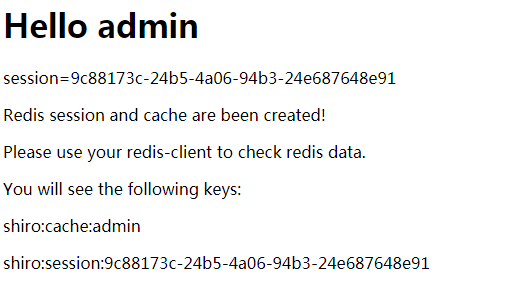
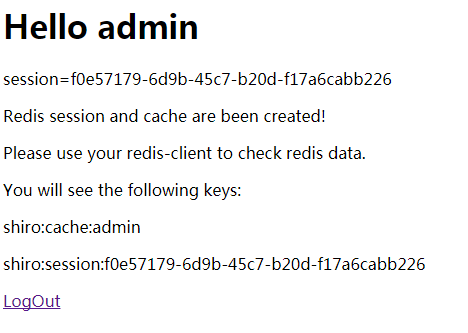
Add Logout

diff --git a/src/main/java/org/crazycake/shiroredis/Logout.java b/src/main/java/org/crazycake/shiroredis/Logout.java
@@ -1,0 +1,38 @@
+package org.crazycake.shiroredis;
+
+import org.apache.shiro.SecurityUtils;
+import org.apache.shiro.subject.Subject;
+import org.slf4j.Logger;
+import org.slf4j.LoggerFactory;
+
+import javax.servlet.http.HttpServlet;
+import javax.servlet.http.HttpServletRequest;
+import javax.servlet.http.HttpServletResponse;
+import java.io.IOException;
+
+/**
+ * Login Servlet. Adapted from shiro tutorial.
+ * https://shiro.apache.org/tutorial.html#final-tutorial-class
+ * @author Alex Yang
+ */
+public class Logout extends HttpServlet {
+	
+	private static final transient Logger log = LoggerFactory.getLogger(Logout.class);
+	
+	/**
+	 * Use shiro-redis to handle session and cached
+	 */
+	protected void doGet(HttpServletRequest request, HttpServletResponse response) throws IOException
+    {
+
+		Subject currentUser = SecurityUtils.getSubject();
+
+        // let's login the current user so we can check against roles and permissions:
+        if (currentUser.isAuthenticated()) {
+            currentUser.logout();
+        }
+
+        // jump to login age
+        response.sendRedirect("/index.html");
+    }
+}

diff --git a/src/main/java/org/crazycake/shiroredis/Login.java b/src/main/java/org/crazycake/shiroredis/Login.java
@@ -80,5 +80,6 @@ public class Login extends HttpServlet {
         response.getWriter().println("<p>You will see the following keys:");
         response.getWriter().println("<p>shiro:cache:admin");
         response.getWriter().println("<p>shiro:session:" + session.getId());
+        response.getWriter().println("<p><a href=\"/logout\">LogOut</a>");
     }
 }
